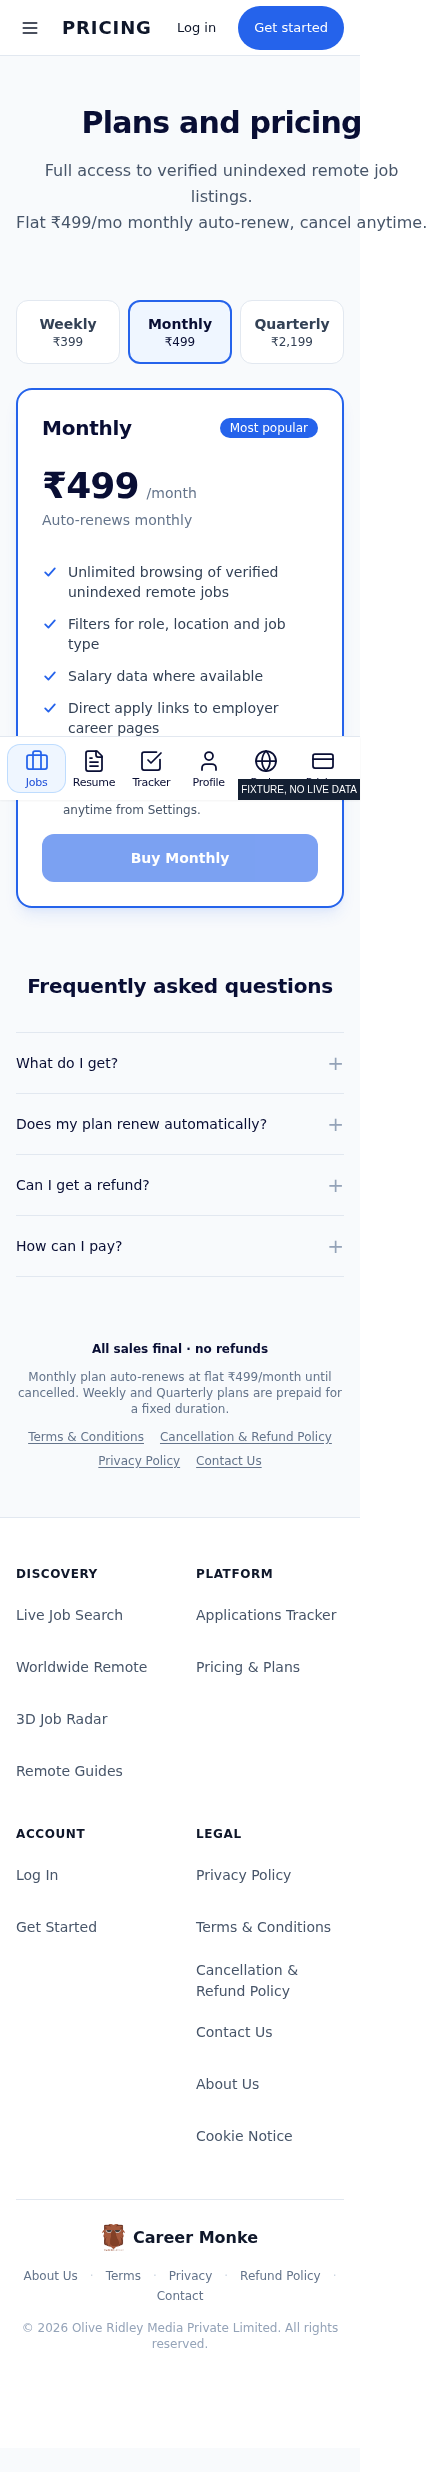
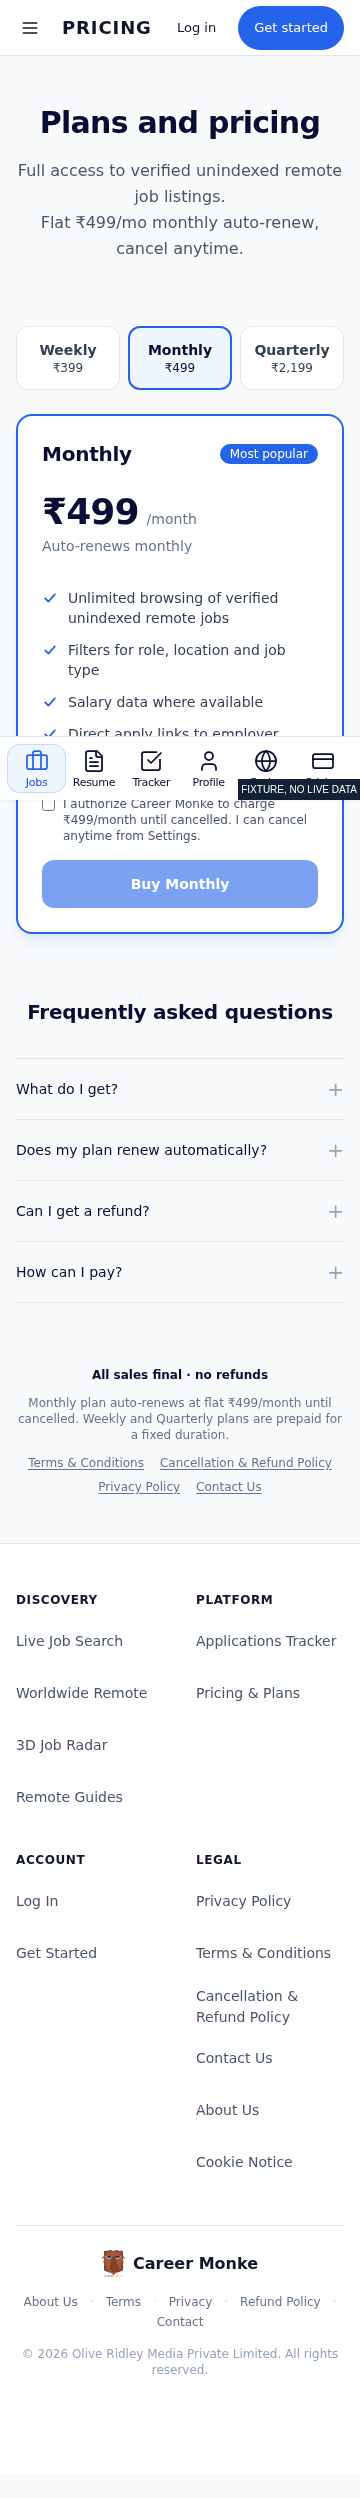
fix mobile pricing tagline overflow and recapture all widths

diff --git a/src/app/pricing/page.tsx b/src/app/pricing/page.tsx
@@ -228,7 +228,7 @@ export default function PricingPage() {
         </h1>
         <p className="mt-4 text-base sm:text-lg text-slate-600 dark:text-slate-400 leading-relaxed">
           <span className="sm:block">Full access to verified unindexed remote job listings.</span>{" "}
-          <span className="sm:block whitespace-nowrap">
+          <span className="block whitespace-normal break-words sm:whitespace-nowrap">
             {isAutoRenewEnabled ? "Flat ₹499/mo monthly auto-renew, cancel anytime." : "One-time payment, no auto-renewal."}
           </span>
         </p>
